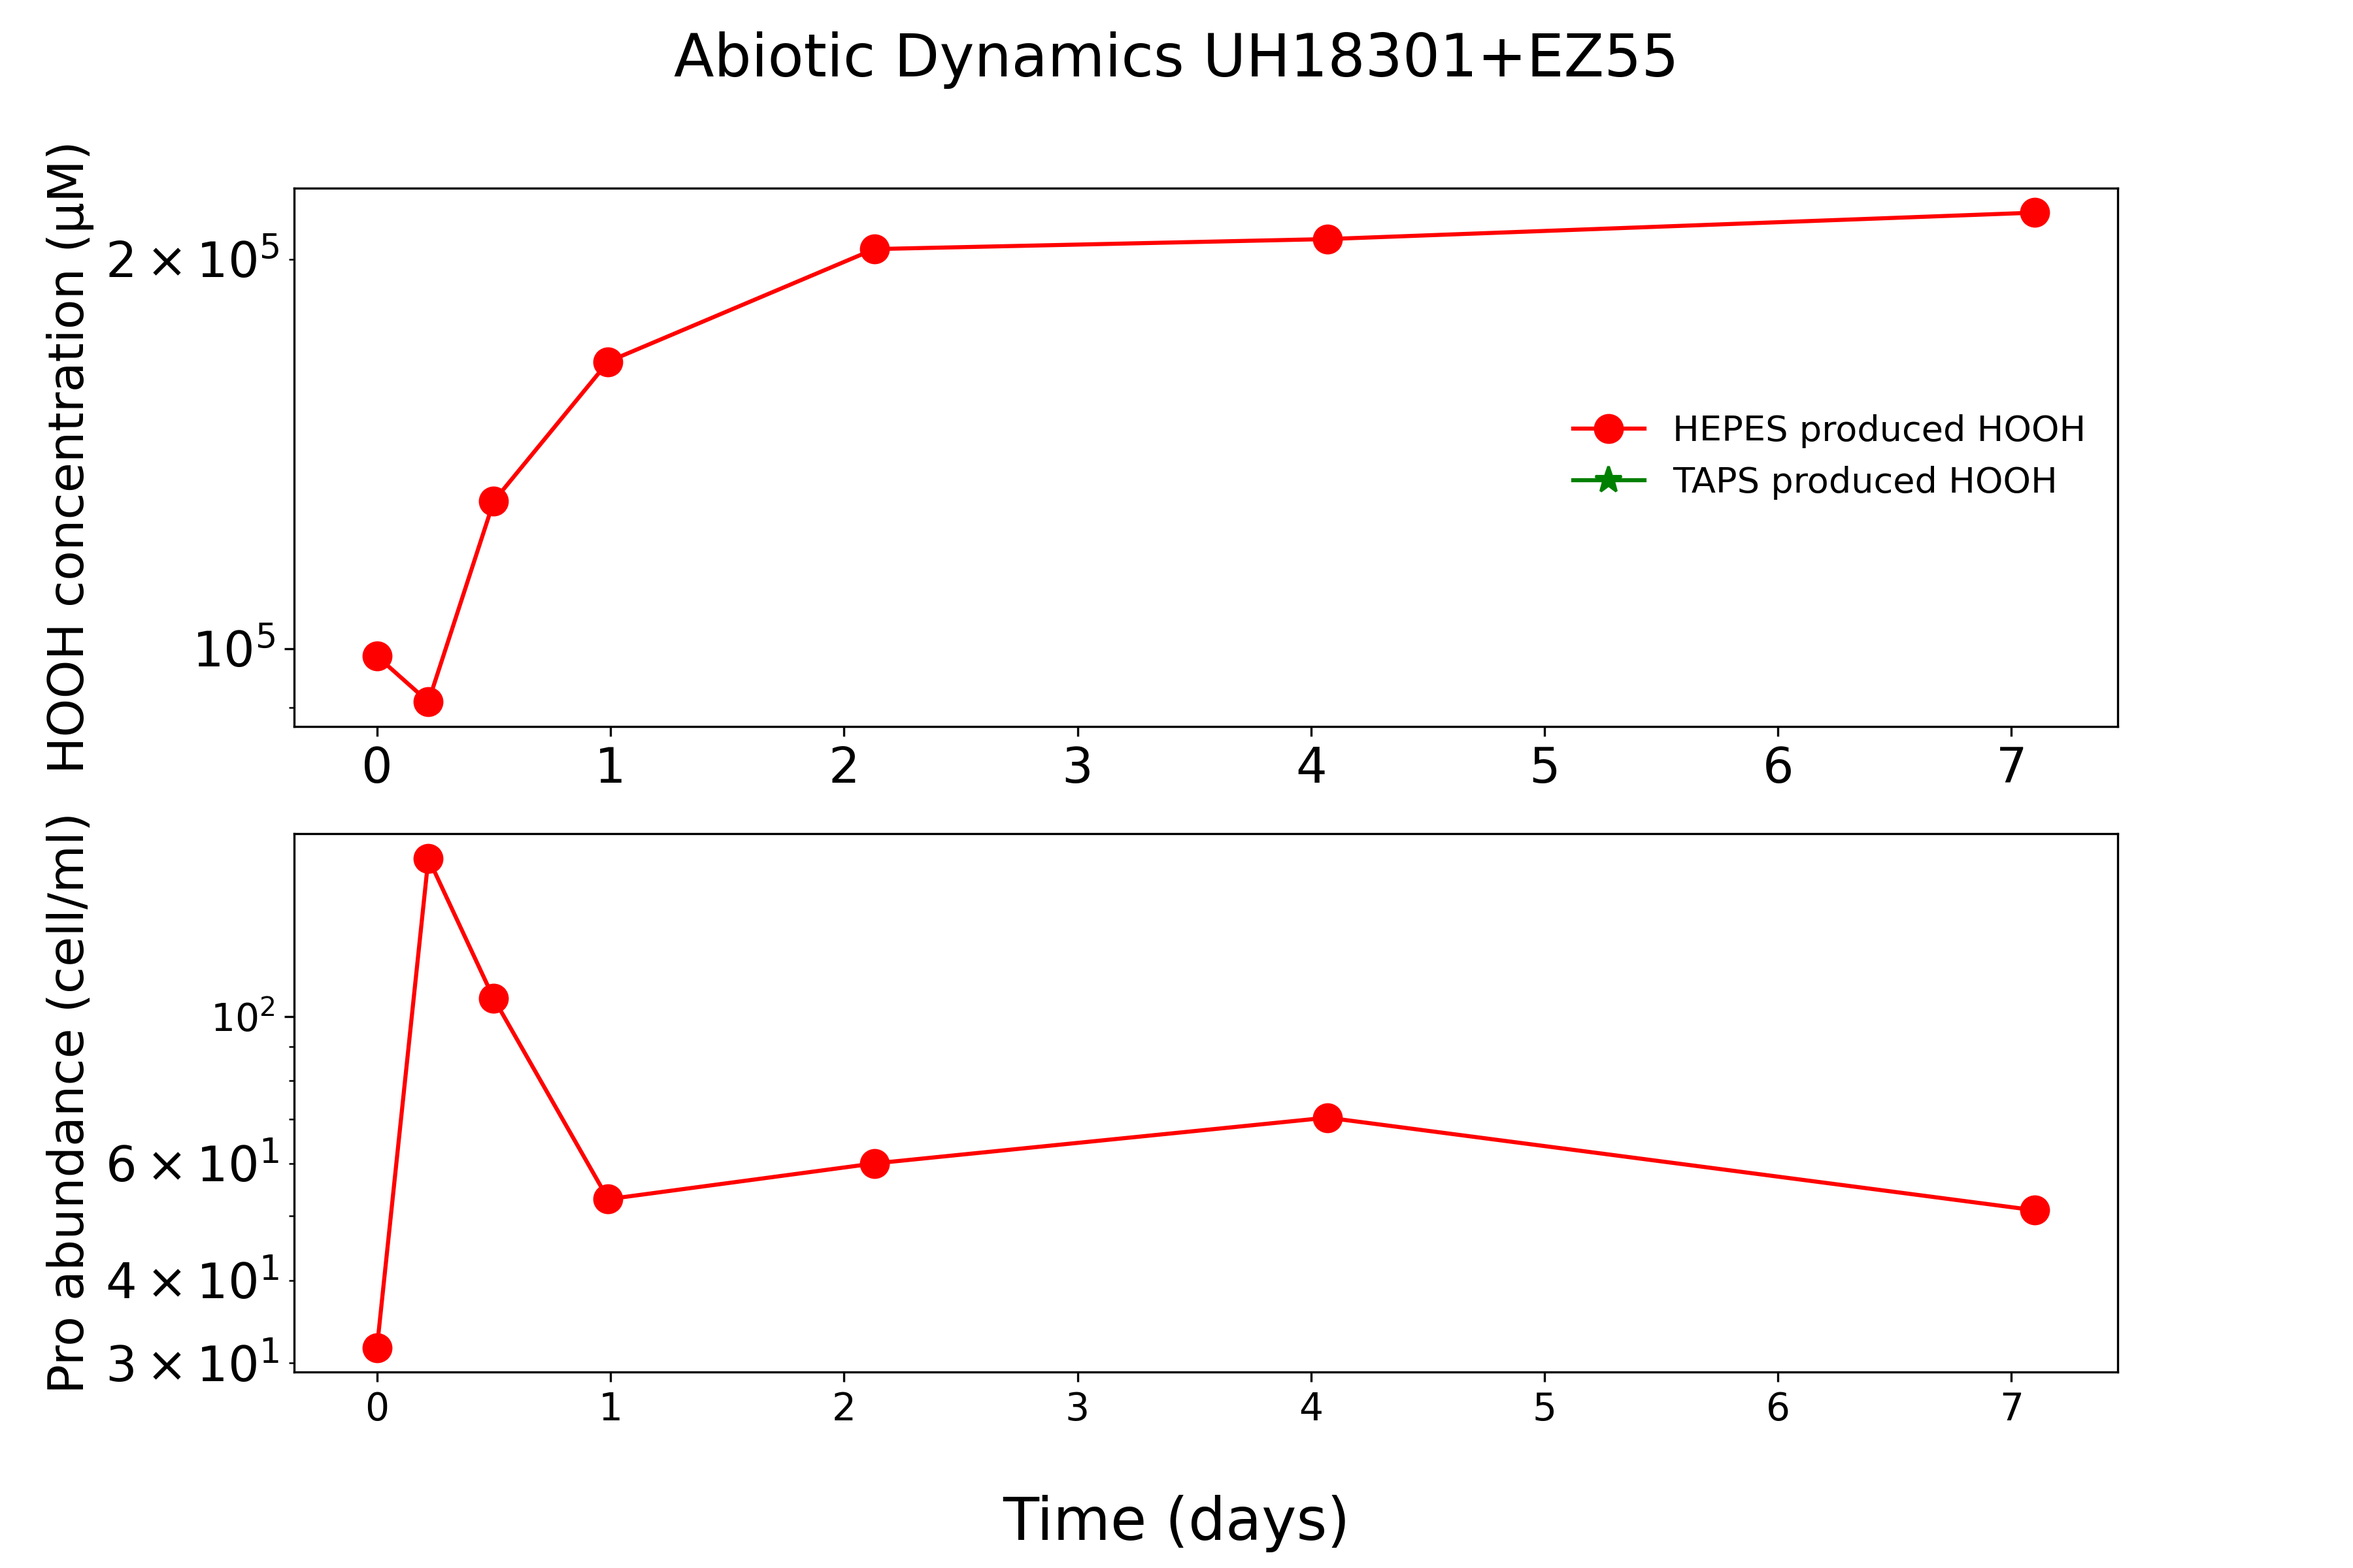
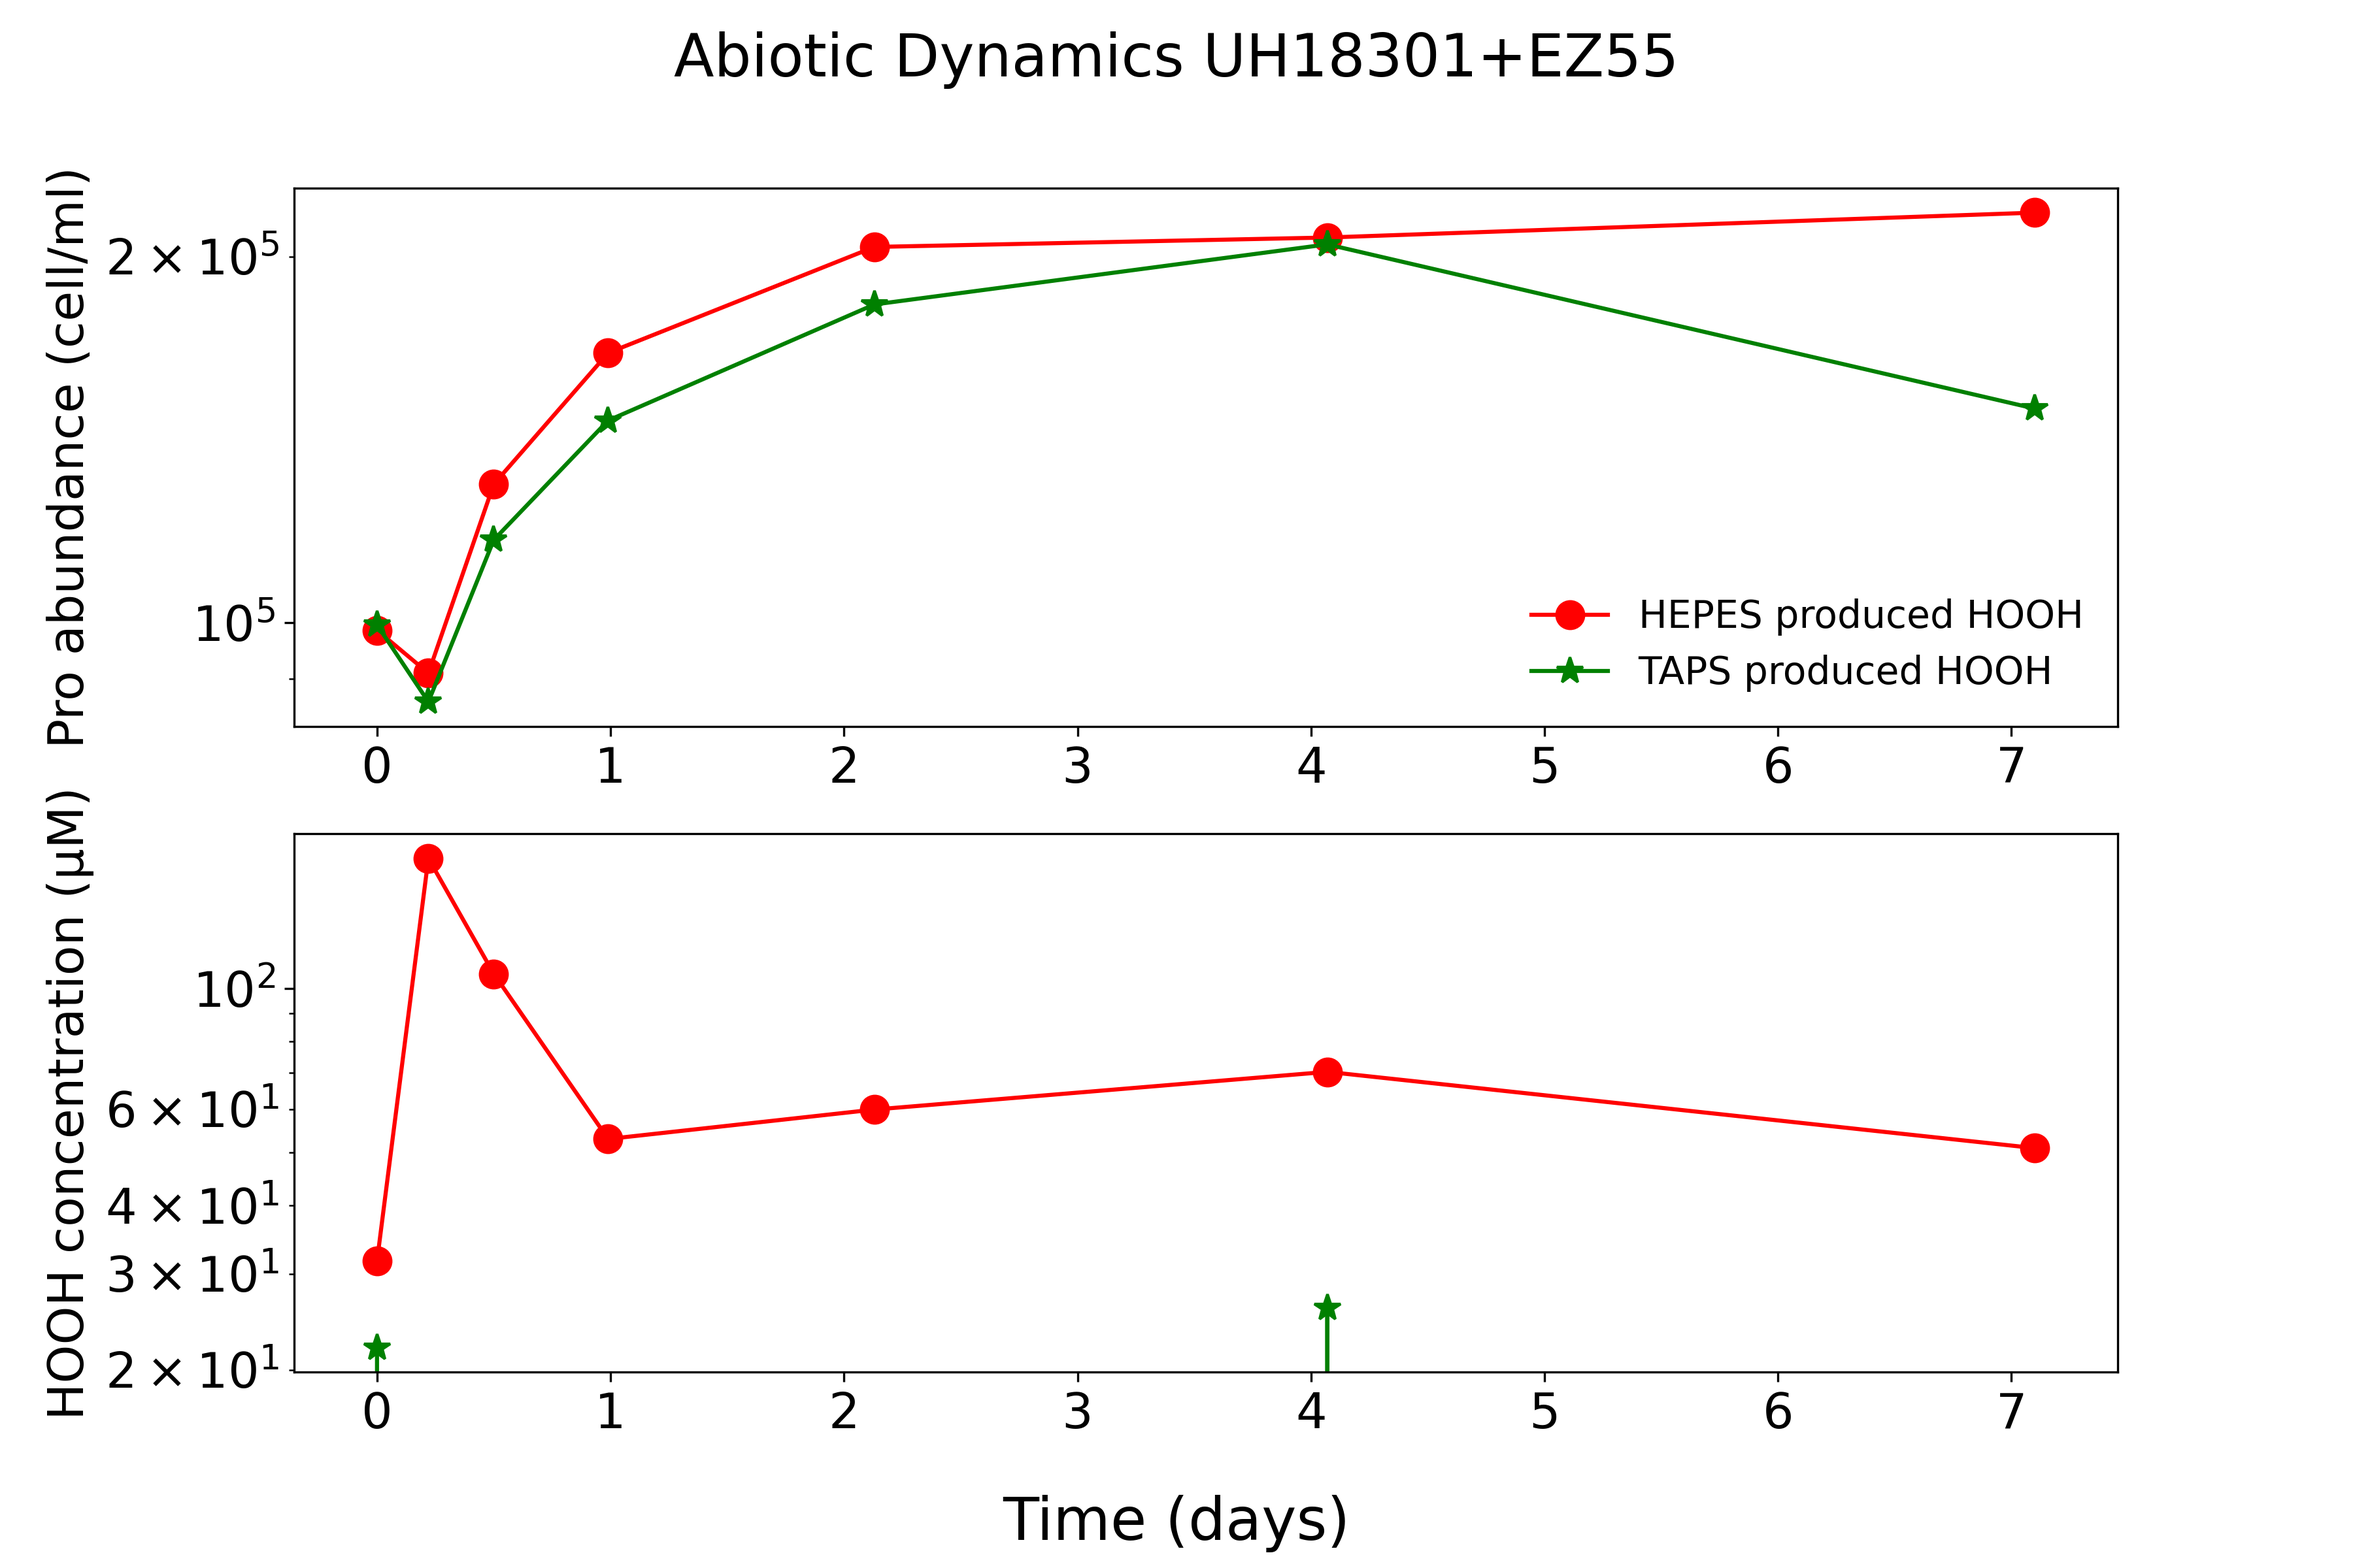
eod

diff --git a/src/viz_buffers_P_and_H_data.py b/src/viz_buffers_P_and_H_data.py
@@ -1,9 +1,9 @@
 '''
-Hooh_3_way_solved.py
+viz_buffers_P_and_H_data.py
 
-Trying to match HOOH production data from Morris et al 2011 using an analytical solution, euler's aproximation, and ODEint 
+Trying to match HOOH production data from Morris et al 2011 fig 1 using an analytical solution, euler's aproximation, and ODEint 
 
-Using Morris_et_al_2011 data about HOOH production from Hepes buffer to get a 'productuion rate of HOOH vi Hepes buffer'  
+UH18301 Pro in 3.75 mM HEPES or Taps buffer. High light (24uC in a Sunbox -  noon maximum of about 250 quanta m) pro99 media 
 
 created by DKM
 
@@ -71,6 +71,7 @@ markers = ('o','*')
 
 for a,n in zip(assays,range(nassays)):
     fig1,(ax1)= plt.subplots(2,1, figsize = (12,8))
+    fig2,(ax2) = plt.subplots(1,2,figsize = (12,8))
     for t,nt in zip(treats,range(ntreats)): 
         df = df_all[(df_all['ID'] == a)]
         count = nt
@@ -87,102 +88,38 @@ for a,n in zip(assays,range(nassays)):
         l1.draw_frame(False)#print(df)
         ax1[0].semilogy()
         ax1[1].semilogy()
-        plt.xticks(fontsize = 14)
-        plt.yticks(fontsize = 14)
-
+        #viz uncertainty in data
+        ax2[0].errorbar(x = pdf['time'], y =pdf['log_abundance'],yerr = pdf['log_sigma'], color = colors[count], label = ('P in '+ str(t)))
+        ax2[0].errorbar(x = hdf['time'], y =hdf['log_abundance'],yerr = hdf['log_sigma'], color = colors[count], label = ('H of '+ str(t)))
+        ax2[1].plot(pdf['log_abundance'],pdf['log_sigma'], label = 'P')
+        ax2[1].plot(hdf['log_abundance'],hdf['log_sigma'], label = 'H')
+        fig2.suptitle('Mean and std of dynamics of '+ str(a))
+        #suptitle('mean vs std')
+        l2 = ax2[0].legend(loc = 'lower right', prop={"size":14}) 
+        l2.draw_frame(False)#print(df)
+        ax2[0].semilogy()
+        ax2[0].set_ylabel('Concentration (ml-1)'+ str(a) +' in '+ str(t))
+        ax2[0].set_xlabel('Time (Days)')
+        ax2[1].set_xlabel('mean')
+        ax2[1].set_ylabel('std')
+    plt.xticks(fontsize = 14)
+    plt.yticks(fontsize = 14)
     plt.show()
     fig1.savefig('../figures/Hproduction_'+str(a)+'_data.png')
+    fig2.savefig('../figures/dynamics_'+str(a)+'_data.png')
+
+
+
+
+
+
+
 
 
 
     
 '''
 
-
-Hs = (HOOH_data)
-Ts = HOOH_times
-
-Hsd = np.std(Hs)     #getting numpy to find the stdv of the data (but really will probs be 0.1 bc the data set doesn't have triplicates in it. 
-
-
-
-
-####################################
-
-#analytical solution
-
-####################################
-
-#initial values and creating time array
-
-delta = 0.5
-S_HOOH = 2.3
-step = 0.05 #delta t
-ndays = 7
-times = np.linspace(0,ndays,int(ndays/step))
-
-def f(t, S_HOOH, delta):
-	H = (S_HOOH/delta)*(1-e**(-delta*t))
-	return H
-
-Hs = f(times,S_HOOH,delta)
-#print(times,Hs) 
-
-
-plt.plot(times,Hs,c='g',linestyle = '-.',label='Analytical Solution')
-#, marker='*'
-
-
-#############################
-
-#Euler's Integration
-
-############################
-
-HsEuler = np.array([]) 
-H = 0.0
-t0 = 0
-
-for t in times: 
-	HsEuler = np.append(HsEuler,H)
-	dHdt = S_HOOH - delta*H
-	H = H + dHdt*step
-	
-#plt.plot(times,HsEuler,c='red',label = 'Model')#,label = "Euler's Aproximation")
-
-plt.legend()
-
-#plt.show()
-
-
-
-####################################
-
-#ODE int
-
-####################################
-
-
-from scipy.integrate import odeint
-
-def HsODEint(H,t):
-	dHdt = S_HOOH-delta*H
-	#print(dHdt,t,H)
-	return dHdt
-
-
-ode_solutions = odeint(HsODEint,0,times)
-
-
-plt.plot(times,ode_solutions,c='purple', linestyle = ':', label = 'Odeint Approximation')
-plt.xticks(fontsize = 14)
-plt.yticks(fontsize = 14)
-
-
-plt.legend(loc = 'lower right')
-plt.show()
-
-	
 
 '''
 print('\n ~~~****~~~****~~~ \n')
